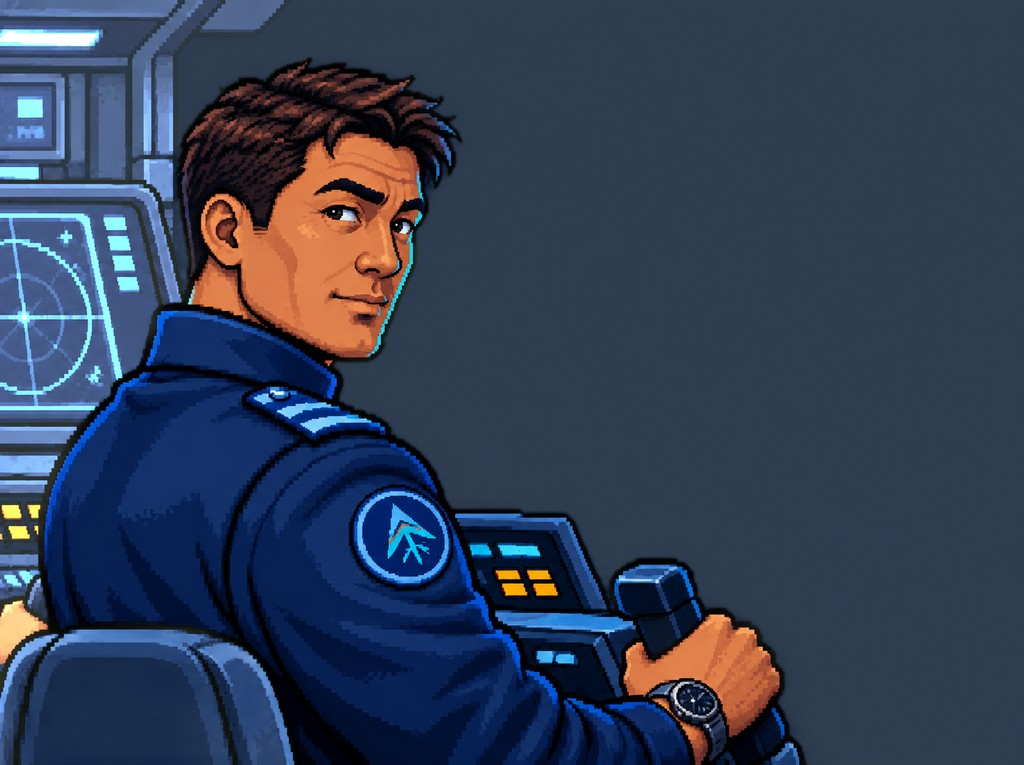
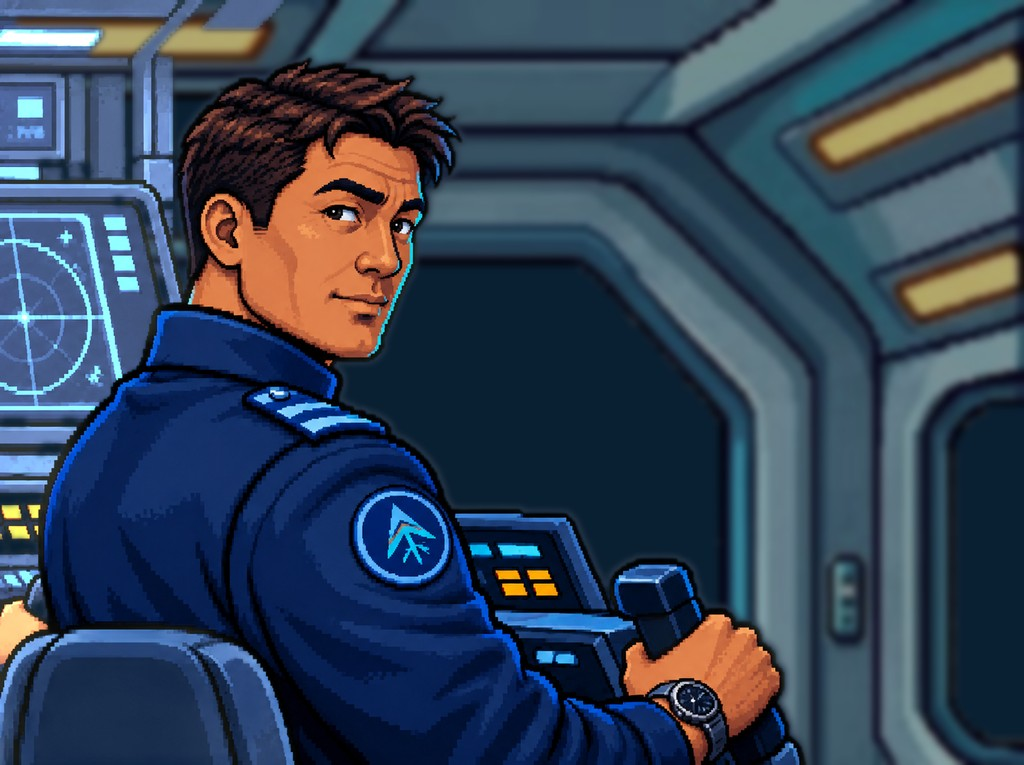
Alex's dialogue picture; Marcus and Alex get a soft bridge backdrop behind them
Claude-Session: https://claude.ai/code/session_01QsU1qWh9Lm4CoQ2smq7FHb

diff --git a/tablet/js/art.js b/tablet/js/art.js
@@ -29,7 +29,7 @@ export function artImg(name) {
 // Like the rooms: the owner's original (smooth) and a 64x64 palette copy (Display > Pictures > Retro). Keyed by crew id (data/contacts.json).
 export const PORTRAITS = {
   communications: { original: 'retro/assets/crew/communications_original.jpg', retro: 'retro/assets/crew/communications.png' },   // Nicole Brooks
-  ...Object.fromEntries(['helm', 'executiveOfficer', 'science', 'engineering', 'security'].map((id) => [id, { original: `retro/assets/crew/${id}_original.jpg`, retro: `retro/assets/crew/${id}.png` }])),   // Marcus, ARIA, Dr. Patel, Chief Doyle, Lt. Washington (tools/crew_art.py)
+  ...Object.fromEntries(['helm', 'executiveOfficer', 'science', 'engineering', 'security', 'sensors'].map((id) => [id, { original: `retro/assets/crew/${id}_original.jpg`, retro: `retro/assets/crew/${id}.png` }])),   // Marcus, ARIA, Dr. Patel, Chief Doyle, Lt. Washington, Alex (tools/crew_art.py)
 };
 /** One <img> per picture and class, made once and reused (it follows the Pictures setting; no new listener on every redraw). */
 const pics = new Map();
@@ -50,7 +50,7 @@ export const portrait = (id, cls = 'portrait') => pic(PORTRAITS, id, cls);
 // fills the 4:3 box and a text box on the empty side carries what they say and the choices. Original and a 320x240 palette copy.
 export const SCENES = {
   communications: { original: 'retro/assets/crew/communications_scene_original.jpg', retro: 'retro/assets/crew/communications_scene.png' },   // Nicole at the comms station (a stand-in until the owner has the over-the-shoulder pose)
-  ...Object.fromEntries(['helm', 'executiveOfficer', 'science', 'engineering', 'security'].map((id) => [id, { original: `retro/assets/crew/${id}_scene_original.jpg`, retro: `retro/assets/crew/${id}_scene.png` }])),   // the owner's pictures, 2026-11-27
+  ...Object.fromEntries(['helm', 'executiveOfficer', 'science', 'engineering', 'security', 'sensors'].map((id) => [id, { original: `retro/assets/crew/${id}_scene_original.jpg`, retro: `retro/assets/crew/${id}_scene.png` }])),   // the owner's pictures, 2026-11-27
 };
 /** Where the text box goes on each scene picture: on the empty side. 'right' (default), 'left', 'side-left' (narrow, beside a standing figure),
  *  'right-short' (right, stopping above a hand at the bottom) or 'bottom' (across the lower third, when the figure fills the middle). */

diff --git a/tools/crew_art.py b/tools/crew_art.py
@@ -10,8 +10,8 @@ import os, sys, json
 from PIL import Image
 ROOT = os.path.dirname(os.path.dirname(os.path.abspath(__file__)))
 SRC, OUT = os.path.join(ROOT, 'art_src', 'crew'), os.path.join(ROOT, 'tablet', 'retro', 'assets', 'crew')
-FACE = { 'helm': (330, 110, 400), 'executiveOfficer': (60, 120, 720), 'science': (560, 20, 300), 'engineering': (560, 60, 380), 'security': (920, 40, 360) }   # helm: the over-the-shoulder picture of 2026-11-27 (the first one is helm_scene_v1.png)
-ROOM = { 'helm': 'bridge_original.png', 'engineering': 'engineering_original.jpg', 'security': 'launchbay_original.jpg' }
+FACE = { 'helm': (330, 110, 400), 'executiveOfficer': (60, 120, 720), 'science': (560, 20, 300), 'engineering': (560, 60, 380), 'security': (920, 40, 360), 'sensors': (120, 160, 420) }   # helm: the over-the-shoulder picture of 2026-11-27 (the first one is helm_scene_v1.png)
+ROOM = { 'helm': 'bridge_original.png', 'sensors': 'bridge_original.png', 'engineering': 'engineering_original.jpg', 'security': 'launchbay_original.jpg' }
 BG_STRENGTH = 0.7
 def room_match(im, cid):
     import numpy as np
@@ -28,15 +28,38 @@ def room_match(im, cid):
         out[..., k] = lab[..., k] + ((lab[..., k] - v.mean()) * sc + rv.mean() - lab[..., k]) * BG_STRENGTH
     res = rgb * m[..., None] + ep.to_rgb(out).astype(float) * bg[..., None]
     return Image.fromarray(res.clip(0, 255).astype(np.uint8))
+# BACKDROP (owner, 2026-11-27): pictures drawn on a plain dark backdrop get a soft, out-of-focus piece of the room picture in that plain area
+# (the drawn consoles and the figure stay). crop: art pixels of the room picture; flip: mirror it so its detail lands on the empty side.
+BACKDROP = { 'helm': ('bridge_original.png', (590, 0, 1024, 300), False), 'sensors': ('bridge_original.png', (0, 0, 434, 300), True) }
+def add_backdrop(im, cid):
+    import numpy as np
+    from PIL import ImageFilter
+    if cid not in BACKDROP: return im
+    room, crop, flip = BACKDROP[cid]
+    br = Image.open(os.path.join(ROOT, 'tablet', 'retro', 'assets', room)).convert('RGBA').crop(crop)
+    if flip: br = br.transpose(Image.FLIP_LEFT_RIGHT)
+    sea = Image.new('RGBA', br.size, (14, 46, 72, 255)); sea.alpha_composite(br)   # window holes in the frame: dark sea
+    bd = np.array(sea.convert('RGB').resize(im.size, Image.LANCZOS).filter(ImageFilter.GaussianBlur(5))).astype(float) * 0.7   # out of focus and a little dimmer, so the figure stands out
+    src = Image.open(os.path.join(SRC, f'{cid}_scene.png')).convert('RGB'); rgb0 = np.array(src).astype(float)   # find the plain area on the untouched picture
+    base = np.median(rgb0[:80, -200:].reshape(-1, 3), 0)
+    near = Image.fromarray(((np.abs(rgb0 - base).sum(-1) < 45) * 255).astype(np.uint8)).filter(ImageFilter.MinFilter(9)).filter(ImageFilter.MaxFilter(9))
+    fig = Image.open(os.path.join(SRC, f'{cid}_mask.png')).convert('L').resize(im.size).filter(ImageFilter.MaxFilter(7))
+    e = np.array(near).astype(float) / 255 * (1 - np.array(fig).astype(float) / 255)
+    e = np.array(Image.fromarray((e * 255).astype(np.uint8)).filter(ImageFilter.GaussianBlur(4))).astype(float) / 255
+    rgb = np.array(im).astype(float)
+    return Image.fromarray((rgb * (1 - e[..., None]) + bd * e[..., None]).clip(0, 255).astype(np.uint8))
 def snap(img):
     d = json.load(open(os.path.join(ROOT, 'data', 'palette.json'))); c = d if isinstance(d, list) else d.get('colors', d)
     pal = [tuple(int(h[i:i + 2], 16) for i in (1, 3, 5)) for h in c]; flat = [v for p in pal for v in p]; flat += flat[:3] * (256 - len(pal))
     pi = Image.new('P', (1, 1)); pi.putpalette(flat); return img.quantize(palette=pi, dither=Image.NONE).convert('RGB')
-for cid in sys.argv[1:] or FACE:
-    im = room_match(Image.open(os.path.join(SRC, f'{cid}_scene.png')).convert('RGB'), cid)
-    im.resize((1024, 765), Image.LANCZOS).save(os.path.join(OUT, f'{cid}_scene_original.jpg'), quality=90, optimize=True)
-    snap(im.resize((320, 240), Image.LANCZOS)).save(os.path.join(OUT, f'{cid}_scene.png'))
-    x, y, n = FACE[cid]; face = im.crop((x, y, x + n, y + n))
-    face.resize((512, 512), Image.LANCZOS).save(os.path.join(OUT, f'{cid}_original.jpg'), quality=90, optimize=True)
-    snap(face.resize((64, 64), Image.LANCZOS)).save(os.path.join(OUT, f'{cid}.png'))
-    print('made', cid)
+def main():
+  for cid in sys.argv[1:] or FACE:
+      im = add_backdrop(room_match(Image.open(os.path.join(SRC, f'{cid}_scene.png')).convert('RGB'), cid), cid)
+      im.resize((1024, 765), Image.LANCZOS).save(os.path.join(OUT, f'{cid}_scene_original.jpg'), quality=90, optimize=True)
+      snap(im.resize((320, 240), Image.LANCZOS)).save(os.path.join(OUT, f'{cid}_scene.png'))
+      x, y, n = FACE[cid]; face = im.crop((x, y, x + n, y + n))
+      face.resize((512, 512), Image.LANCZOS).save(os.path.join(OUT, f'{cid}_original.jpg'), quality=90, optimize=True)
+      snap(face.resize((64, 64), Image.LANCZOS)).save(os.path.join(OUT, f'{cid}.png'))
+      print('made', cid)
+if __name__ == '__main__':
+    main()

diff --git a/docs/HANDOFF.md b/docs/HANDOFF.md
@@ -1,6 +1,6 @@
 # Handoff (read this first when a session starts; update it before parking)
 
-Last updated: 2026-11-27. Branch to work on: `tablet`. Repo: NickWest27/AquaNova (GitHub Pages path `/AquaNova/`). Last change: crew scene backgrounds shifted toward their room's colours (bridge, engineering, launch bay; figure kept as drawn; masks `art_src/crew/<id>_mask.png`, `ROOM` and `BG_STRENGTH` in `tools/crew_art.py`). Before that new crew scene pictures (Marcus over the shoulder, replacing the first one, kept as `art_src/crew/helm_scene_v1.png`; Chief Doyle; Lt. Washington), made by `tools/crew_art.py`; text box per picture in `SCENE_BOX` (Marcus right but short of his hand, Washington left, Doyle across the bottom with the choices in two columns). Before that desk pads are banks of five (range buttons gone, the yellow keys do range; SNR contact buttons Scan, Probe, Clear moved to the right pad, Investigate renamed Probe; the Sensors station keeps its own − RANGE +). Open: the left pad still has six pages (TAC is a stub). Before that bridge desk (owner, 2026-11-27): the three desk pads are warped to the slant of their holes; DSP moved from the right pad to the round trackpad (lamp lit while on); the two yellow keys left of the centre display are RANGE + / − with the signs printed on; the overhead panel carries the status (position, date, time, BAT) and the screen-edge strip is hidden on the bridge; before that sound board in the PED (Settings > Sound > Sound board opens it full screen over the game; the buttons live in `tablet/js/soundboardKit.js`, shared with the stand-alone page `tablet/soundboard.html`, published at `.../AquaNova/tablet/tablet/soundboard.html`: note the double `tablet`); before that sound board for the owner (every sound in sfx.js and the theme on a button, rename and Copy names); before that NEW BRIDGE FRAME (the owner's picture of 2026-11-27, 1024x765, holes cut from its painted checkerboard; source `art_src/rooms/bridge_original.png`, colour-matched by `tools/even_palette.py`, Retro copy snapped from it). Marcus at the centre helm (tap him to talk; his left monitor opens the Helm station; his two small monitors show heading/speed and depth/floor), Nicole left, Alex right. The three desk pads are one row each: HLM's depth and cruise buttons moved to the right pad. The status strip moves to the top on the bridge (`body.on-bridge`). Walkway exit: bottom-left corner. Before that: 16-bit sound effects library (`tablet/js/sfx.js`, 32 sounds; previews `docs/audio/sfx/`, reel `docs/audio/sfx_reel.mp3` + `.txt`, rendered by `tools/render_sfx.py`; Effects slider in PED Settings). Wired: general alarm, impact/crash, fire and flooding alarms, super cruise power-up and engage, emergency blow, sonar sweep ping, doors between rooms, the engine room loop, radio squelch when the communicator opens; before that short crew lines show as notices on the bridge's overhead console (two lines, whole panel); ARIA's hints wait at least a minute; bigger overhead and nav log text; the vertical profile uses the nav screen's colours (warning yellow and red kept); before that every crew message opens the dialogue (hints, reports, objective lines); only the reply to a button press (`tell()`) and action ticks stay a short line at the foot of the screen (notify.js); before that main title "Beneath the Waves" (original, 16-bit style, `tablet/js/theme.js`; PED Settings > Play theme; render with `tools/render_theme.py` to `docs/audio/aqua_nova_theme.mp3`); before that the communicator never replaces what the Captain is reading: new lines wait behind "Continue" (crew.js readTo); before that fixed Restart from the beginning (a new game was no longer recognised because 'pick up the communicator' now starts as waiting; `commsLocked` in app.js; test `tools/restart_test.py`); before that no discovery notes in the logbook (arrivals to the PED Journal, records to PED Findings); before that one task at a time (objective status 'waiting' until the step before is done; follow-on missions start after a short saved pause; the PED shows done steps, the current one and how many are to come); super cruise spools up for 8 s and eases in and out, any other power setting drops it; Route editor Edit button and a degrees-and-minutes read-back in the waypoint dialog; the trials escort (OERA Seaward, CGC Vigilant) on AIS; the 300 m depth is a certification step (story bible); before that route planner fix (trips over about 120 nm fell off the search grid and were reported as blocked: `route.js` now grows its cells on long trips; test in `tools/route_test.mjs`); the commissioning orders give the AO's centre point, not its corners; before that walkway A1, walkway AN-1 and medbay back to the colour-matched pictures (a pixel-art rebuild by filter looked smudged; they need redrawing to be as crisp as the launch bay); stray speckles removed from the Retro copies; BRIDGE sign on A1 drawn by the game; before that rooms open with the story and crew join the communicator when their room is visited (`rooms.js`, see `docs/COMMS_AND_PROGRESSION.md`); ARIA's bridge introduction; before that crew renamed (Lt. Andre Washington for security, Chief Engineer Ryan Doyle; see `docs/STORY_BIBLE.md`); the Captain's lines in the communicator are conversational (`SAY` in `stations/crew.js`); Call another station; Take me to my quarters removed; before that communicator menu tidied and First Contact completes on ARIA's introduction (see `docs/HELM_AND_ORDERS.md`); before that portraits and dialogue screens for Marcus, ARIA and Dr. Patel (`tools/crew_art.py`, sources in `art_src/crew/`; text box side per picture: `SCENE_BOX` in art.js); before that room pictures evened out to the Engineering picture's brightness and colour (`tools/even_palette.py`; the untouched originals are in `art_src/rooms/`, outside the served folders: a new room picture goes there first, then run the script, which also remakes the Retro copies); bigger crew tap areas on the bridge; before that the owner's testing list (below, all 18 items); before that the quarters wall screen cycles NAV, synthetic vision, sonar, WSKRs and ship status (`quartersScreen.js`, tap = next page, 10 s each; test `tools/quarters_screen_test.py`); pushing the trials for records with a risk of light damage (`trials.js`); story bible brought up to date; before that Sea Trials became the commissioning trip to the Trials AO (welcome letter in the logbook, commissioning orders by mail, Welcome to the AO mail; nav, eng and super cruise commissioned in steps; see the tutorial table in `docs/COMMS_AND_PROGRESSION.md`); before that the owner's welcome letter in the logbook; before that general alarm (ARIA order + engineering button; red lighting and frames; faster fire/flood response if sounded first; see `docs/ENGINEERING.md`); before that the Engineering room shows the ship's state (core glow amber/red, live console screens, red alarm for fire/flooding; see `docs/ENGINEERING.md`); before that the engineering computer; before that the 90s dialogue screen for Nicole; before that Nicole's portrait; before that walkway AN-1 and Engineering on the owner's pictures (every room is now 4:3); before that site survey (`survey.js`, Survey site on SONAR, Seabed survey missions) and the XO tends Remora before getting under way; before that Remora's tether parts past its length, the Tern fetches her (`tools/tether_test.py`); before that PED, communicator and corner buttons in the 4:3 box; before that Launch Bay as instruments, WSKRs have their own launch bays, standard target readout (`readout.js`), Full sweep 36 s; before that station pages are a 4:3 page (1024 x 768) scaled like the stage; before that pages fit the screen (`tools/fit_test.py`) and Sensors has SONAR and WSKRs only; before that contact tracking (detection chance, names belong to tracks, probable matches, signatures on file: `docs/CONTACT_TRACKING.md`); before that identified ships saved; before that one zoom direction everywhere ("+" zooms in) and round map zoom buttons; before that the bridge original picture with real transparent holes; before that the medbay on the owner's picture (after bridge, walkway A1, quarters, science lab, launch bay).
+Last updated: 2026-11-27. Branch to work on: `tablet`. Repo: NickWest27/AquaNova (GitHub Pages path `/AquaNova/`). Last change: Alex's dialogue picture and face (`sensors`); Marcus and Alex were drawn on a plain dark backdrop, so that area now shows a soft, out-of-focus piece of the bridge picture (`BACKDROP` in `tools/crew_art.py`). Before that crew scene backgrounds shifted toward their room's colours (bridge, engineering, launch bay; figure kept as drawn; masks `art_src/crew/<id>_mask.png`, `ROOM` and `BG_STRENGTH` in `tools/crew_art.py`). Before that new crew scene pictures (Marcus over the shoulder, replacing the first one, kept as `art_src/crew/helm_scene_v1.png`; Chief Doyle; Lt. Washington), made by `tools/crew_art.py`; text box per picture in `SCENE_BOX` (Marcus right but short of his hand, Washington left, Doyle across the bottom with the choices in two columns). Before that desk pads are banks of five (range buttons gone, the yellow keys do range; SNR contact buttons Scan, Probe, Clear moved to the right pad, Investigate renamed Probe; the Sensors station keeps its own − RANGE +). Open: the left pad still has six pages (TAC is a stub). Before that bridge desk (owner, 2026-11-27): the three desk pads are warped to the slant of their holes; DSP moved from the right pad to the round trackpad (lamp lit while on); the two yellow keys left of the centre display are RANGE + / − with the signs printed on; the overhead panel carries the status (position, date, time, BAT) and the screen-edge strip is hidden on the bridge; before that sound board in the PED (Settings > Sound > Sound board opens it full screen over the game; the buttons live in `tablet/js/soundboardKit.js`, shared with the stand-alone page `tablet/soundboard.html`, published at `.../AquaNova/tablet/tablet/soundboard.html`: note the double `tablet`); before that sound board for the owner (every sound in sfx.js and the theme on a button, rename and Copy names); before that NEW BRIDGE FRAME (the owner's picture of 2026-11-27, 1024x765, holes cut from its painted checkerboard; source `art_src/rooms/bridge_original.png`, colour-matched by `tools/even_palette.py`, Retro copy snapped from it). Marcus at the centre helm (tap him to talk; his left monitor opens the Helm station; his two small monitors show heading/speed and depth/floor), Nicole left, Alex right. The three desk pads are one row each: HLM's depth and cruise buttons moved to the right pad. The status strip moves to the top on the bridge (`body.on-bridge`). Walkway exit: bottom-left corner. Before that: 16-bit sound effects library (`tablet/js/sfx.js`, 32 sounds; previews `docs/audio/sfx/`, reel `docs/audio/sfx_reel.mp3` + `.txt`, rendered by `tools/render_sfx.py`; Effects slider in PED Settings). Wired: general alarm, impact/crash, fire and flooding alarms, super cruise power-up and engage, emergency blow, sonar sweep ping, doors between rooms, the engine room loop, radio squelch when the communicator opens; before that short crew lines show as notices on the bridge's overhead console (two lines, whole panel); ARIA's hints wait at least a minute; bigger overhead and nav log text; the vertical profile uses the nav screen's colours (warning yellow and red kept); before that every crew message opens the dialogue (hints, reports, objective lines); only the reply to a button press (`tell()`) and action ticks stay a short line at the foot of the screen (notify.js); before that main title "Beneath the Waves" (original, 16-bit style, `tablet/js/theme.js`; PED Settings > Play theme; render with `tools/render_theme.py` to `docs/audio/aqua_nova_theme.mp3`); before that the communicator never replaces what the Captain is reading: new lines wait behind "Continue" (crew.js readTo); before that fixed Restart from the beginning (a new game was no longer recognised because 'pick up the communicator' now starts as waiting; `commsLocked` in app.js; test `tools/restart_test.py`); before that no discovery notes in the logbook (arrivals to the PED Journal, records to PED Findings); before that one task at a time (objective status 'waiting' until the step before is done; follow-on missions start after a short saved pause; the PED shows done steps, the current one and how many are to come); super cruise spools up for 8 s and eases in and out, any other power setting drops it; Route editor Edit button and a degrees-and-minutes read-back in the waypoint dialog; the trials escort (OERA Seaward, CGC Vigilant) on AIS; the 300 m depth is a certification step (story bible); before that route planner fix (trips over about 120 nm fell off the search grid and were reported as blocked: `route.js` now grows its cells on long trips; test in `tools/route_test.mjs`); the commissioning orders give the AO's centre point, not its corners; before that walkway A1, walkway AN-1 and medbay back to the colour-matched pictures (a pixel-art rebuild by filter looked smudged; they need redrawing to be as crisp as the launch bay); stray speckles removed from the Retro copies; BRIDGE sign on A1 drawn by the game; before that rooms open with the story and crew join the communicator when their room is visited (`rooms.js`, see `docs/COMMS_AND_PROGRESSION.md`); ARIA's bridge introduction; before that crew renamed (Lt. Andre Washington for security, Chief Engineer Ryan Doyle; see `docs/STORY_BIBLE.md`); the Captain's lines in the communicator are conversational (`SAY` in `stations/crew.js`); Call another station; Take me to my quarters removed; before that communicator menu tidied and First Contact completes on ARIA's introduction (see `docs/HELM_AND_ORDERS.md`); before that portraits and dialogue screens for Marcus, ARIA and Dr. Patel (`tools/crew_art.py`, sources in `art_src/crew/`; text box side per picture: `SCENE_BOX` in art.js); before that room pictures evened out to the Engineering picture's brightness and colour (`tools/even_palette.py`; the untouched originals are in `art_src/rooms/`, outside the served folders: a new room picture goes there first, then run the script, which also remakes the Retro copies); bigger crew tap areas on the bridge; before that the owner's testing list (below, all 18 items); before that the quarters wall screen cycles NAV, synthetic vision, sonar, WSKRs and ship status (`quartersScreen.js`, tap = next page, 10 s each; test `tools/quarters_screen_test.py`); pushing the trials for records with a risk of light damage (`trials.js`); story bible brought up to date; before that Sea Trials became the commissioning trip to the Trials AO (welcome letter in the logbook, commissioning orders by mail, Welcome to the AO mail; nav, eng and super cruise commissioned in steps; see the tutorial table in `docs/COMMS_AND_PROGRESSION.md`); before that the owner's welcome letter in the logbook; before that general alarm (ARIA order + engineering button; red lighting and frames; faster fire/flood response if sounded first; see `docs/ENGINEERING.md`); before that the Engineering room shows the ship's state (core glow amber/red, live console screens, red alarm for fire/flooding; see `docs/ENGINEERING.md`); before that the engineering computer; before that the 90s dialogue screen for Nicole; before that Nicole's portrait; before that walkway AN-1 and Engineering on the owner's pictures (every room is now 4:3); before that site survey (`survey.js`, Survey site on SONAR, Seabed survey missions) and the XO tends Remora before getting under way; before that Remora's tether parts past its length, the Tern fetches her (`tools/tether_test.py`); before that PED, communicator and corner buttons in the 4:3 box; before that Launch Bay as instruments, WSKRs have their own launch bays, standard target readout (`readout.js`), Full sweep 36 s; before that station pages are a 4:3 page (1024 x 768) scaled like the stage; before that pages fit the screen (`tools/fit_test.py`) and Sensors has SONAR and WSKRs only; before that contact tracking (detection chance, names belong to tracks, probable matches, signatures on file: `docs/CONTACT_TRACKING.md`); before that identified ships saved; before that one zoom direction everywhere ("+" zooms in) and round map zoom buttons; before that the bridge original picture with real transparent holes; before that the medbay on the owner's picture (after bridge, walkway A1, quarters, science lab, launch bay).
 
 ## Owner's testing list (2026-11-26): all done 2026-11-27, waiting for the owner to test on the iPad
 Rooms and signs

diff --git a/docs/STORY_BIBLE.md b/docs/STORY_BIBLE.md
@@ -50,7 +50,7 @@ The Aqua Nova is advanced enough that the nations behind O.E.R.A. will not let h
   - Nicole Brooks: at the comms station (a stand-in picture; the owner wants an over-the-shoulder pose like Marcus).
   - Ryan Doyle (picture of 2026-11-27): early fifties, red-brown hair going grey, freckled ruddy face, a pencil behind his ear, coveralls with the sleeves rolled, a red rag in his back pocket, a Saint Christopher medal; one hand on the reactor casing; behind him a wrench taped to the bulkhead, "DO NOT TOUCH. LUCKY."
   - Andre Washington (picture of 2026-11-27): about forty, very tall and broad, close-cropped greying hair, short beard; arms folded, the Corps emblem on the right forearm, a column of names and the daughter's anchor-whale on the left; in the launch bay with the Tern behind him.
-  - Still to draw: Alex Torres (about thirty, lean, a little round-shouldered from the sonar shack, short black hair flattened by the headset he never takes off, olive skin, dark steady half-closed eyes, sleeves pushed up, an old Navy sonar-tech pin on the collar; over the shoulder at the sensors console, hand on a volume knob, mid-listen).
+  - Alex Torres (picture of 2026-11-27): about thirty, dark wavy hair, olive skin, dark steady eyes, headphones on; over the shoulder at the sensors console, a calm half-smile.
 
 - **Where they work** (the Captain meets them there, then can call them): bridge = Marcus (helm), Nicole (comms, left console), Alex (sensors, right console; may move to a sonar room off the bridge if Marcus takes the right console); launch bay = Lt. Washington; science lab and sick bay = Dr. Patel; engineering = Chief Doyle; ARIA everywhere.
 
